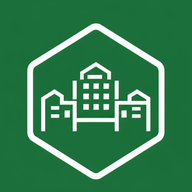
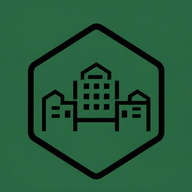
Icone de traco preto como padrao em todos os lugares

Changed region(s): [[0.125, 0.0938, 0.875, 0.9375]]

diff --git a/site/index.html b/site/index.html
@@ -5,8 +5,7 @@
 <meta name="viewport" content="width=device-width, initial-scale=1, viewport-fit=cover">
 <meta name="theme-color" content="#1f6f4a">
 <title>NaPlanta</title>
-<link rel="icon" type="image/png" href="favicon-claro.png" media="(prefers-color-scheme: light)">
-<link rel="icon" type="image/png" href="favicon.png" media="(prefers-color-scheme: dark)">
+<link rel="icon" type="image/png" href="favicon.png">
 <link rel="apple-touch-icon" href="apple-touch-icon.png">
 <link rel="manifest" href="manifest.json">
 <link rel="preload" href="dados.json" as="fetch" crossorigin>
@@ -24,7 +23,7 @@
   h1 { margin:0 8px 0 0; font-size:25px; letter-spacing:-.3px; } h1 span { color:var(--accent); }
   #filtros { display:flex; flex-wrap:wrap; gap:10px 12px; align-items:flex-end; }
   label { display:flex; flex-direction:column; font-size:12px; color:var(--muted); gap:3px; }
-  select, input { font:inherit; padding:7px 9px; border:1px solid var(--line); border-radius:10px; background:#fff; color:var(--ink); min-width:130px;
+  select, input { font:inherit; padding:7px 9px; border:1px solid var(--line); border-radius:10px; background:#fff; color:var(--ink); min-width:110px;
                   cursor:pointer; transition:border-color .15s, box-shadow .15s; }
   input[type=number] { cursor:text; }
   select:hover, input:hover { border-color:var(--linha-forte); }
@@ -34,11 +33,25 @@
            padding:7px 14px; transition:background-color .15s, border-color .15s, color .15s, transform .1s; }
   button:hover { background:var(--accent-bg); border-color:var(--accent); color:var(--accent); }
   button:active { transform:translateY(1px); }
-  #limpar { border:0; background:none; color:var(--accent); font-weight:400; text-decoration:underline; text-underline-offset:3px; padding:7px 4px; }
-  #limpar:hover { background:none; color:var(--ink); }
+  .botao { display:inline-flex; align-items:center; font-weight:600; font-size:inherit; color:var(--ink); text-decoration:none; border:1px solid var(--line);
+           background:#fff; border-radius:10px; padding:7px 14px; transition:background-color .15s, border-color .15s, color .15s; }
+  .botao:hover { background:var(--accent-bg); border-color:var(--accent); color:var(--accent); }
   .check { flex-direction:row; align-items:center; gap:8px; font-size:14px; color:var(--ink); cursor:pointer; padding:7px 0; }
   .check input { min-width:0; width:18px; height:18px; margin:0; accent-color:var(--accent); cursor:pointer; }
-  #rodape { margin-left:auto; color:var(--muted); font-size:12px; }
+  #rodape { margin-left:auto; display:flex; align-items:center; gap:10px; color:var(--muted); font-size:12px; white-space:nowrap; }
+  /* computador: tudo numa linha so; os campos encolhem na proporcao de --w (o select corta o texto se faltar espaco) */
+  @media (min-width: 801px) {
+    header { flex-wrap:nowrap; gap:8px; padding:8px 12px; }
+    h1 { font-size:22px; margin-right:4px; }
+    header select, header input, header button, header .botao { font-size:14px; }
+    header button, header .botao { padding:6px 11px; white-space:nowrap; }
+    select, input { padding:6px 6px; }
+    #filtros { flex:1 1 auto; flex-wrap:nowrap; min-width:0; gap:8px; justify-content:center; }  /* centralizado entre a marca e o total */
+    #filtros > label:not(.check) { flex:1 1 var(--w, 110px); min-width:0; max-width:calc(var(--w, 110px) * 1.5); }
+    #filtros > label.fixo { flex:0 0 var(--w); max-width:var(--w); }
+    #filtros select, #filtros input:not([type=checkbox]) { width:100%; min-width:0; }
+    .check { white-space:nowrap; font-size:14px; }
+  }
   #abrirFiltros, #alternar { display:none; }
   main { display:grid; grid-template-columns:390px 1fr; min-height:0; }
   #lista { overflow:auto; padding:12px; display:flex; flex-direction:column; gap:12px; }
@@ -100,10 +113,12 @@
     #abrirNovidades, #abrirFiltros { padding:7px 10px; min-height:44px; }
     #abrirFiltros { display:inline-flex; gap:6px; align-items:center; }
     #abrirFiltros b { background:var(--accent); color:#fff; border-radius:99px; padding:0 7px; font-size:12px; }
-    #rodape { margin-left:0; width:100%; }
-    #filtros { display:none; width:100%; grid-template-columns:1fr 1fr; gap:10px; }
+    #rodape { margin-left:0; width:100%; justify-content:space-between; }
+    #rodape { font-size:14px; }
+    #rodape .botao { min-height:44px; font-size:16px; }
+    #filtros { order:0; display:none; width:100%; grid-template-columns:1fr 1fr; gap:10px; }
     body.filtros-abertos #filtros { display:grid; }
-    select, input { min-width:0; width:100%; min-height:44px; }  /* herdam 16px: menos que isso o iPhone da zoom ao tocar */
+    select, input { min-width:0; width:100%; min-height:44px; font-size:16px; }  /* menos que 16px o iPhone da zoom ao tocar */
     #limpar { grid-column:1 / -1; min-height:44px; }
     main { grid-template-columns:1fr; position:relative; }
     #lista, #mapa { grid-area:1 / 1; }
@@ -123,17 +138,17 @@
   <button id="abrirNovidades" type="button" aria-haspopup="dialog">Novidades<b id="nNovidades" hidden></b></button>
   <button id="abrirFiltros" aria-expanded="false" aria-controls="filtros">Filtros <b id="nFiltros" hidden></b></button>
   <div id="filtros">
-    <label>Cidade <select id="cidade"><option value="">Todas</option></select></label>
-    <label>Tipo <select id="tipo"><option value="">Todos</option></select></label>
-    <label>Etapa <select id="etapa"><option value="">Todas</option></select></label>
-    <label>Construtora <select id="construtora"><option value="">Todas</option></select></label>
-    <label>Dormitórios (mín.) <select id="dorms"><option value="">Qualquer</option><option>1</option><option>2</option><option>3</option><option>4</option></select></label>
-    <label>Estação de trem/metrô <select id="estacao"><option value="">Qualquer distância</option><option value="1">Até 1 km</option><option value="2">Até 2 km</option><option value="3">Até 3 km</option></select></label>
-    <label>Área mín. (m²) <input id="m2" type="number" inputmode="numeric" min="0" step="10" placeholder="ex.: 60"></label>
-    <label class="check"><input id="prontos" type="checkbox"> Incluir prontos para morar</label>
-    <button id="limpar" type="button">Limpar filtros</button>
+    <label style="--w:150px">Cidade <select id="cidade"><option value="">Todas</option></select></label>
+    <label style="--w:130px">Tipo <select id="tipo"><option value="">Todos</option></select></label>
+    <label style="--w:125px">Etapa <select id="etapa"><option value="">Todas</option></select></label>
+    <label style="--w:125px">Construtora <select id="construtora"><option value="">Todas</option></select></label>
+    <label class="fixo" style="--w:74px">Dorms <select id="dorms"><option value="">Todos</option><option value="1">1+</option><option value="2">2+</option><option value="3">3+</option><option value="4">4+</option></select></label>
+    <label class="fixo" style="--w:88px">Estação <select id="estacao" title="Distância até a estação de trem ou metrô"><option value="">Todas</option><option value="1">até 1 km</option><option value="2">até 2 km</option><option value="3">até 3 km</option></select></label>
+    <label class="fixo" style="--w:70px">Área mín. <input id="m2" type="number" inputmode="numeric" min="0" step="10" placeholder="m²"></label>
+    <label class="check" title="Incluir empreendimentos prontos para morar"><input id="prontos" type="checkbox"> Prontos</label>
+    <button id="limpar" type="button">Limpar</button>
   </div>
-  <span id="rodape"><span id="total" aria-live="polite"></span> · <a href="transparencia.html">Sobre os dados</a></span>
+  <div id="rodape"><span id="total" aria-live="polite"></span><a class="botao" href="transparencia.html">Sobre os dados</a></div>
 </header>
 <main>
   <section id="lista" aria-label="Empreendimentos"></section>

diff --git a/site/transparencia.html b/site/transparencia.html
@@ -5,8 +5,7 @@
 <meta name="viewport" content="width=device-width, initial-scale=1">
 <meta name="theme-color" content="#1f6f4a">
 <title>Sobre os dados · NaPlanta</title>
-<link rel="icon" type="image/png" href="favicon-claro.png" media="(prefers-color-scheme: light)">
-<link rel="icon" type="image/png" href="favicon.png" media="(prefers-color-scheme: dark)">
+<link rel="icon" type="image/png" href="favicon.png">
 <link rel="apple-touch-icon" href="apple-touch-icon.png">
 <link rel="manifest" href="manifest.json">
 <style>
